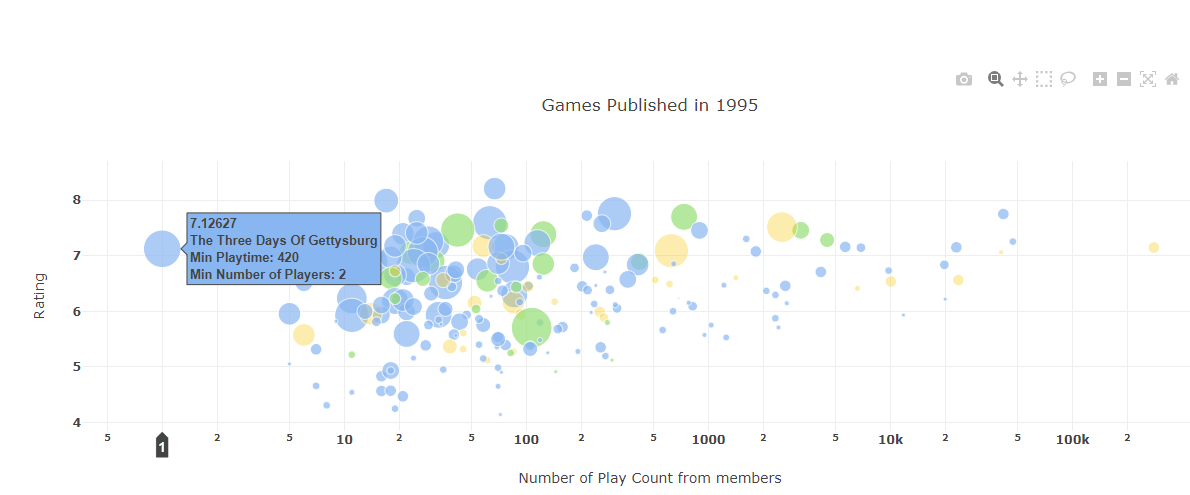
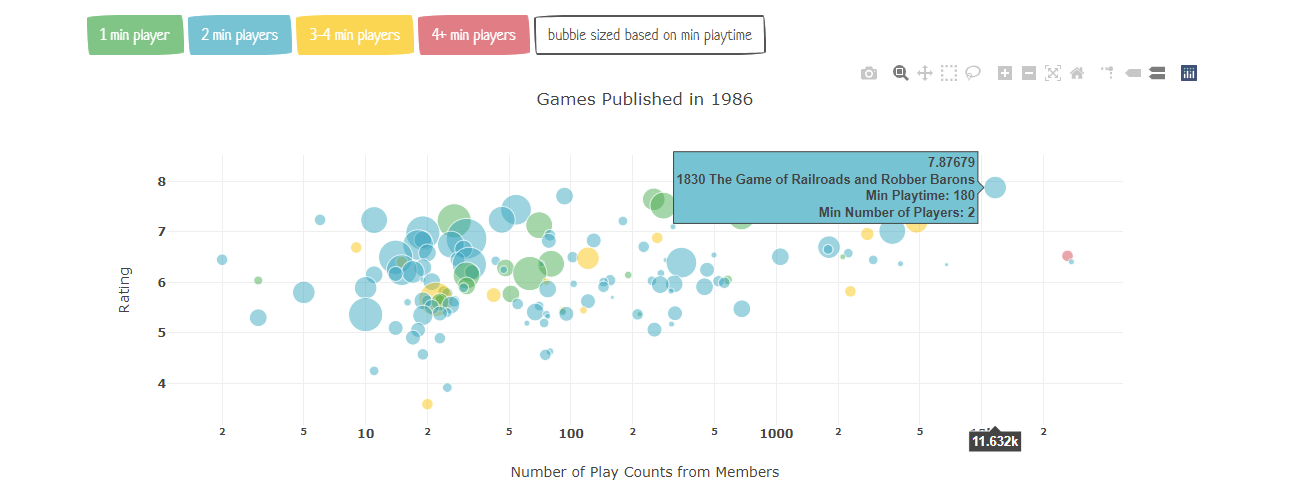
legend bubble chart

diff --git a/boardgamegeek/templates/index.html b/boardgamegeek/templates/index.html
@@ -85,7 +85,7 @@
             </div>
         </div>
     </div>
-    <br>
+    <hr>
     <div class="row">
       <div class="col-md-6">
         <div id="game_graph_1"></div>
@@ -95,9 +95,20 @@
         <canvas id="myChart"></canvas>
       </div>
     </div>
-    <br>
-    <div class="row col-12">
+    <hr>
+    <div class='row'>
+      <div class="col-12">
+            <button type="button" class="btn btn-success disabled">1 min player</button>
+            <button type="button" class="btn btn-info disabled">2 min players</button>
+            <button type="button" class="btn btn-warning disabled">3-4 min players</button>
+            <button type="button" class="btn btn-danger disabled">4+ min players</button>
+            <button type="button" class="btn btn-outline-secondary">bubble sized based on min playtime</button>
+      </div>
+    </div>
+    <div class='row'></div>
+      <div class="col-12">
         <div id="bubble"></div>
+    </div>
     </div>
   </div>
 

diff --git a/boardgamegeek/static/js/app.js b/boardgamegeek/static/js/app.js
@@ -166,13 +166,13 @@ function PlotBubble(year, games){
           marker: {
               color: games.map(a=> {
                 if (a.minplayers<=1) {
-                  return "#94de75";
+                  return "rgba(40,167,69,0.65)";
                 } else if (a.minplayers<=2) {
-                  return "#88b6f1";
+                  return "rgba((23,162,184,0.65)";
                 } else if (a.minplayers<=4) {
-                  return 'rgba(247, 202, 24, 0.5)';
+                  return 'rgba(255,193,7, 0.65)';
                 } else {
-                  return 'rgba(200,0,0,0.5)';
+                  return 'rgba(220,53,69,0.65)';
                 }
               }),
               size: games.map(a=>(a.minplaytime**0.6))
